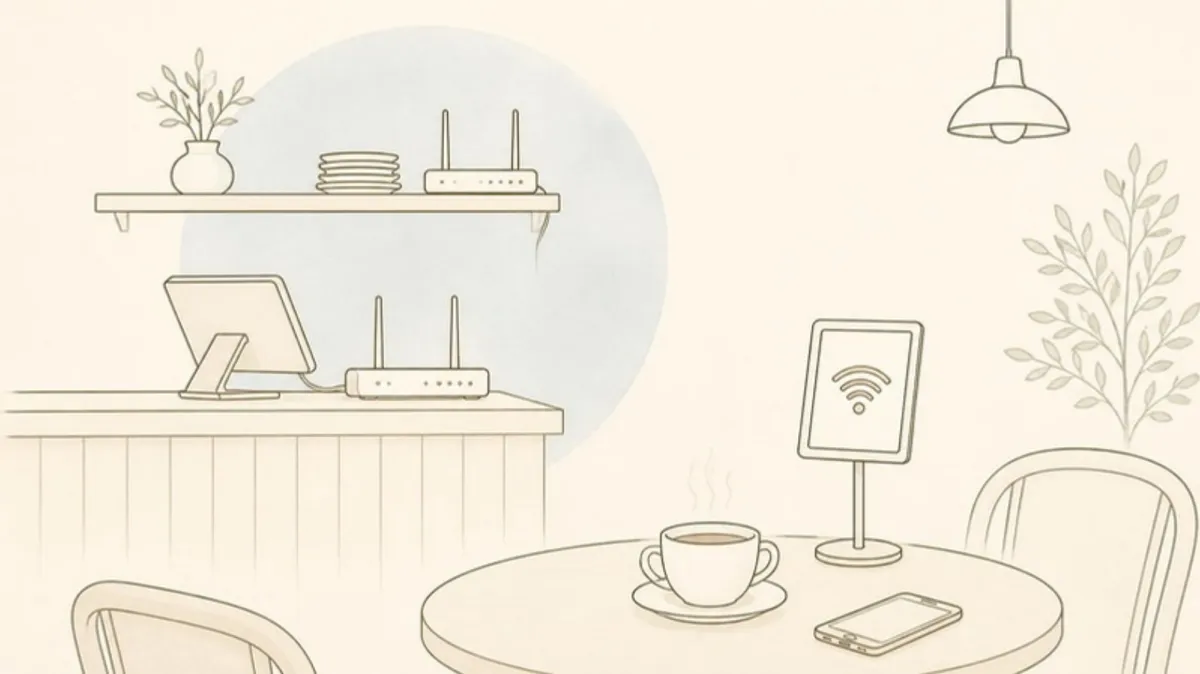
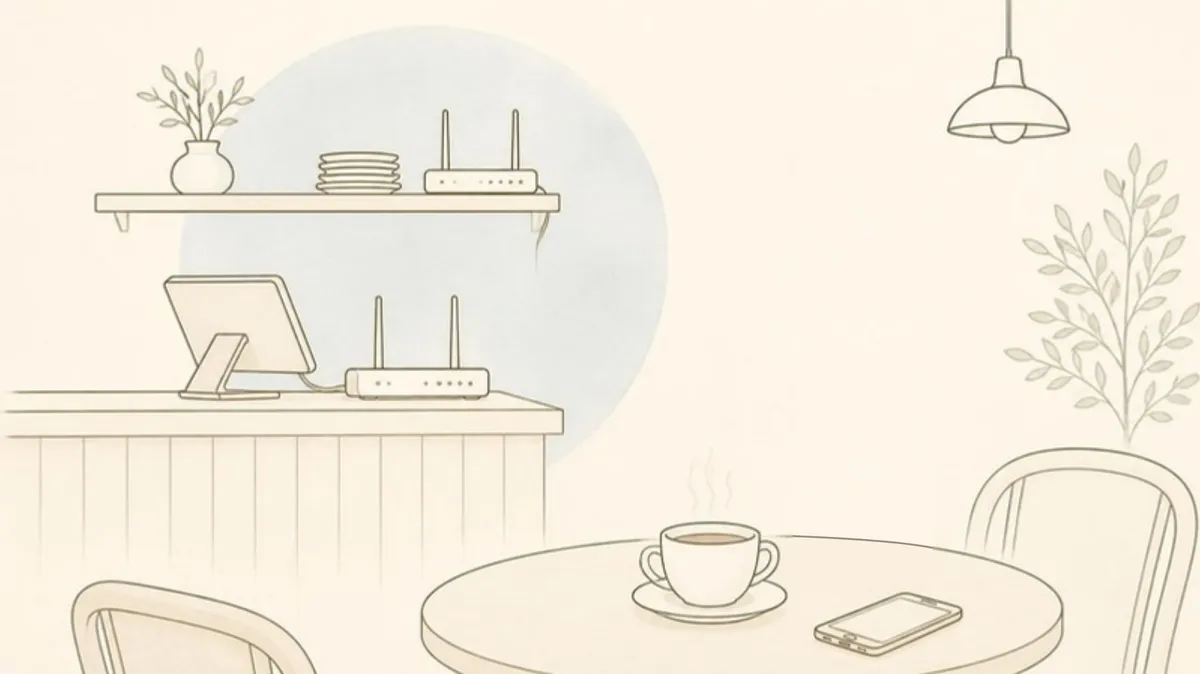
挿絵を修正（キッチンカーの販売口の支柱を分かりやすく・お客様用Wi-Fiの卓上スタンドを削除）、カフェ日記記事の挿絵を追加

Changed region(s): [[0.6475, 0.4674, 0.7708, 0.8412]]

diff --git a/content/posts/kitchen-car-interior-lighting-cleaning.md b/content/posts/kitchen-car-interior-lighting-cleaning.md
@@ -71,7 +71,7 @@ products:
 
 キッチンカーの車内は狭く、**油や水が飛びやすい**場所です。そのため、内装は見た目よりも先に**掃除しやすさ**を考える必要があります。また、夕方からのイベントでは、**照明**で目立つかどうかが売上に直結します。営業のあとは疲れているので、短い時間で片付く工夫があると助かります。
 
-![キッチンカーの車内。シンクと鉄板、天井のLEDライン照明、スプレーボトルとふきんのイラスト](/images/posts/kitchen-car-interior-lighting-cleaning-1.webp)
+![ひさしを2本の支柱で上げた販売口と、キッチンカーの車内のシンク・鉄板・LEDライン照明・棚のイラスト](/images/posts/kitchen-car-interior-lighting-cleaning-1.webp)
 
 この記事では、内装・照明器具・清掃道具の3つについて、キッチンカーならではのポイントをまとめます。
 

diff --git a/content/posts/store-guest-wifi.md b/content/posts/store-guest-wifi.md
@@ -37,7 +37,7 @@ products:
 
 カフェや美容室で、お客様にWi-Fiを使ってもらうのは、うれしいサービスですよね。ただ、**お客様用のWi-Fiと、レジや決済の端末が同じネットワークのまま**になっていると、思わぬトラブルにつながることがあります。
 
-![レジ用とお客様用に分けた2台のWi-Fiルーターと、Wi-Fiマークのスタンドを置いた客席のイラスト](/images/posts/store-guest-wifi-1.webp)
+![レジ用とお客様用に分けた2台のWi-Fiルーターと、コーヒーとスマートフォンを置いた客席のイラスト](/images/posts/store-guest-wifi-1.webp)
 
 総務省は、Wi-Fiを提供するお店や施設に向けて、セキュリティ対策の手引きを出しています。この記事では、その手引きをもとに、お客様用Wi-Fiを出す前に確かめたいことをまとめます。
 
